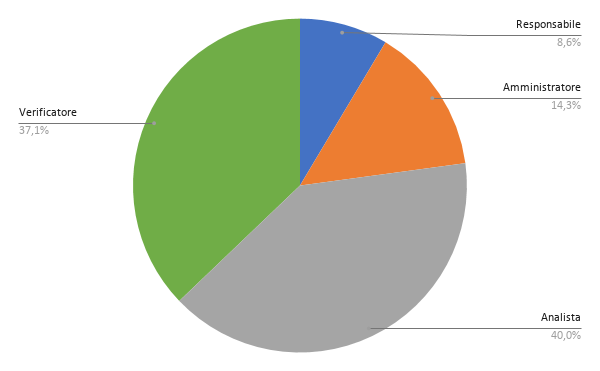
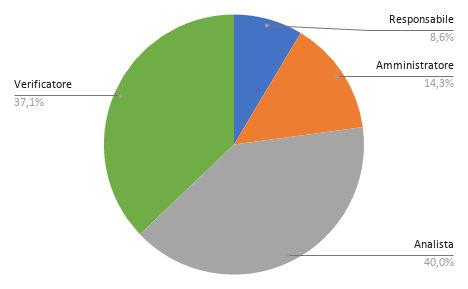
grafici sistemati

diff --git a/RR/Documenti Esterni/Piano di Progetto/sezioni/preventivo.tex b/RR/Documenti Esterni/Piano di Progetto/sezioni/preventivo.tex
@@ -14,19 +14,47 @@ Per descrivere come il gruppo \emph{TechSWEave} utilizzerà le risorse a sua dis
     In questa fase la distribuzione oraria è la seguente:
     %fare tabella e istogramma 
     %---------------------
+    \begin{figure}[!h]
+            \caption{Istogramma orari suddivisione dei ruoli}
+            \vspace{5px}
+            \includegraphics[scale=0.6]{../../../Images/Diagrammi/Istogrammi/ore analisi.png}
+            \centering
+        \end{figure}
     \subsubsection{Prospetto economico}
     In questa fase i costi da affrontare per ogni ruolo sono i seguenti:
     %fare tabella e istogramma 
     %---------------------
+
+    \begin{figure}[!h]
+        \caption{aerogramma ore per ruolo}
+        \vspace{5px}
+        \includegraphics[scale=0.5]{../../../Images/Diagrammi/Diagramma a torta/ore analisi.png}
+        \centering
+    \end{figure}
+
+    \pagebreak
 \subsection{Fase di Consolidamento dei requisiti}
     \subsubsection{Prospetto orario}
     In questa fase la distribuzione oraria è la seguente:
     %fare tabella e istogramma 
     %---------------------
-    \subsubsection{Prospetto economico}
-    In questa fase i costi da afforontare per ogni ruolo sono i seguenti:
-    %fare tabella e istogramma 
-    %---------------------
+    \begin{figure}[!h]
+        \caption{Istogramma orari suddivisione dei ruoli}
+        \vspace{5px}
+        \includegraphics[scale=0.6]{../../../Images/Diagrammi/Istogrammi/ore requisiti.png}
+        \centering
+    \end{figure}
+\subsubsection{Prospetto economico}
+In questa fase i costi da affrontare per ogni ruolo sono i seguenti:
+%fare tabella e istogramma 
+%---------------------
+
+\begin{figure}[!ht]
+    \caption{aerogramma ore requisiti per ruolo}
+    \vspace{5px}
+    \includegraphics[scale=0.5]{../../../Images/Diagrammi/Diagramma a torta/ore requisiti.png}
+    \centering
+\end{figure}
 \subsection{Fase di Progettazione architetturale}
     \subsubsection{Prospetto orario}
     In questa fase la distribuzione oraria è la seguente:
